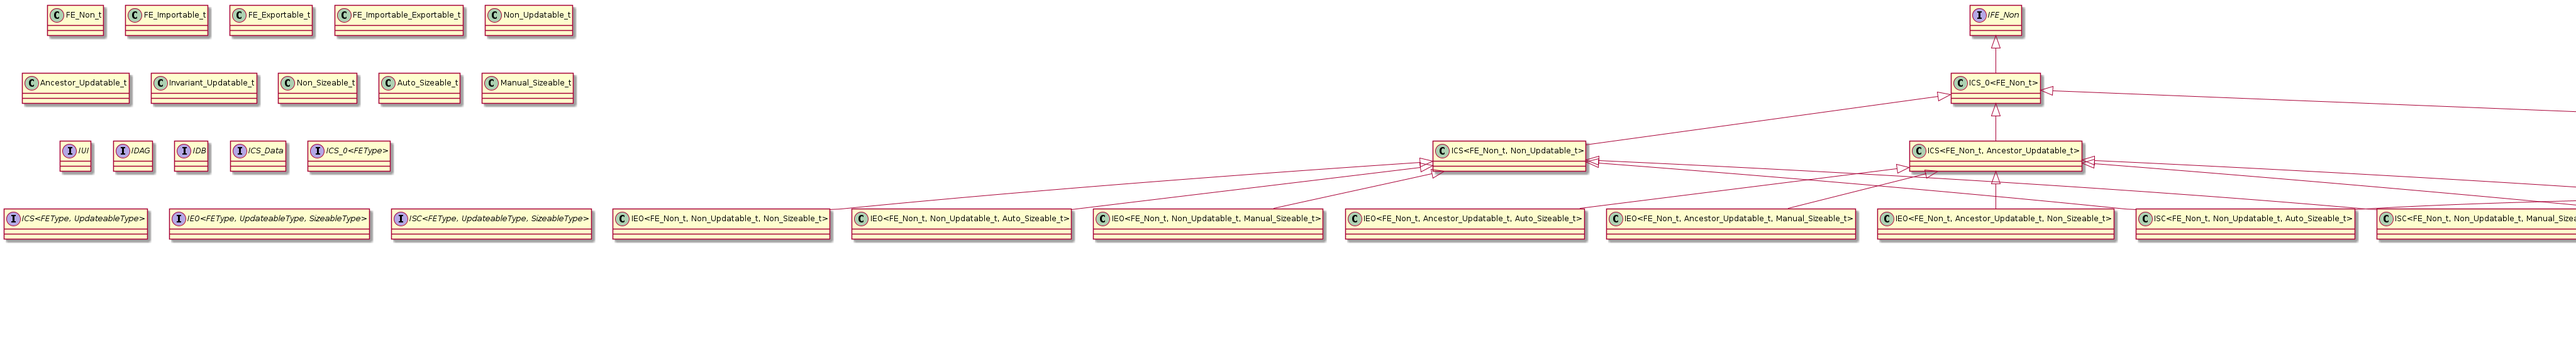
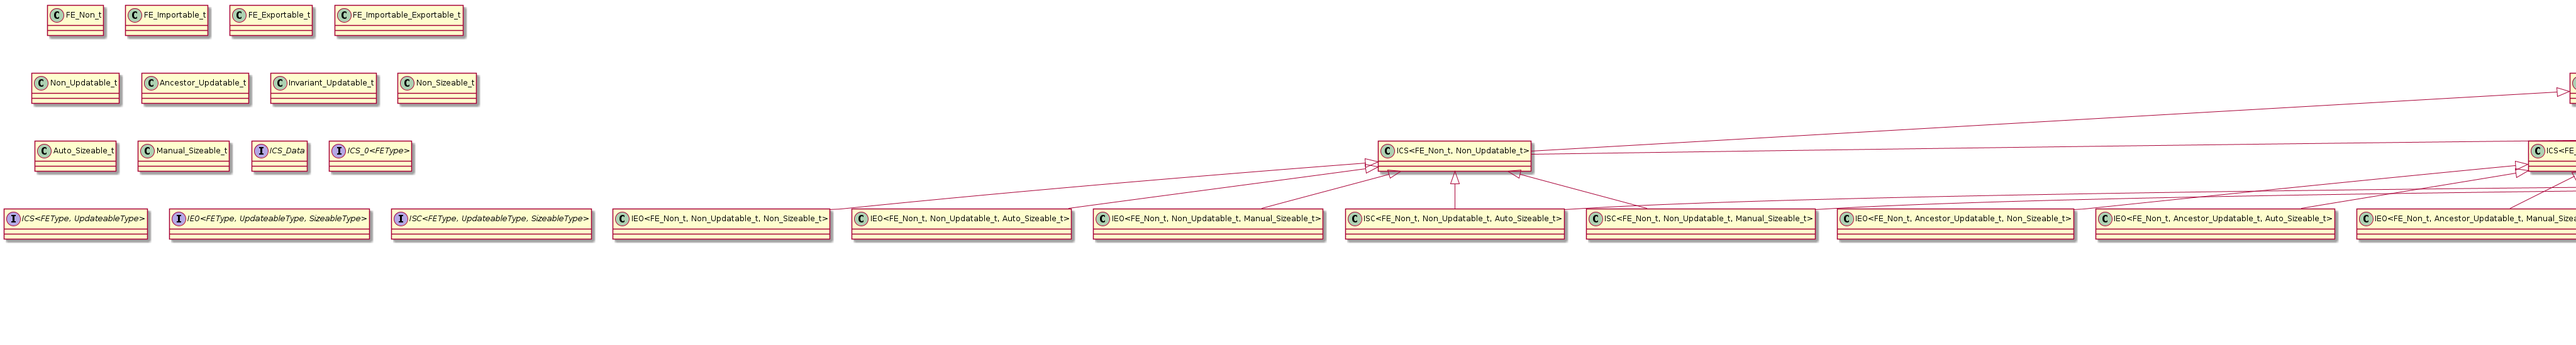
first commit

diff --git a/README.md b/README.md
@@ -3091,6 +3091,8 @@ struct ICS_0<FE_Importable_Exportable_t> : public IFE_Importable_Exportable {
   virtual ~ICS_0() = default;
 };
 
+struct ICS_1 : public IUI, IDAG, IDB {};
+
 // ---------------------------------------------
 // Updateability interface
 
@@ -3099,16 +3101,16 @@ struct Ancestor_Updatable_t;
 struct Invariant_Updatable_t;
 
 template<typename FEType, typename UpdateableType>
-struct I_CS {};
+struct ICS {};
 
 template<typename FEType>
-struct I_CS<FEType, Non_Updatable_t> : public ICS_0<FEType> {
+struct ICS<FEType, Non_Updatable_t> : public ICS_0<FEType>, ICS_1 {
   bool reevaluate_state__DAG(DAG_t const* DAG_) const { return true; };
-  virtual ~I_CS() = default;
+  virtual ~ICS() = default;
 };
 
 template<typename FEType>
-struct I_CS<FEType, Ancestor_Updatable_t> : public ICS_0<FEType> {
+struct ICS<FEType, Ancestor_Updatable_t> : public ICS_0<FEType>, ICS_1 {
   bool reevaluate_state__DAG(DAG_t const* DAG_) const { return inspect_ancestors(DAG_); };
   bool inspect_ancestors(DAG_t const* DAG_) const {
     auto ancestors{ get_ancestors(DAG_) };
@@ -3117,11 +3119,11 @@ struct I_CS<FEType, Ancestor_Updatable_t> : public ICS_0<FEType> {
     }
     return true;
   };
-  virtual ~I_CS() = default;
+  virtual ~ICS() = default;
 };
 
 template<typename FEType>
-struct I_CS<FEType, Invariant_Updatable_t> : public ICS_0<FEType> {
+struct ICS<FEType, Invariant_Updatable_t> : public ICS_0<FEType>, ICS_1 {
   bool reevaluate_state__DAG(DAG_t const* DAG_) const {
     auto inspection{ inspect_ancestors(DAG_) };
     if (!inspection) return false;
@@ -3135,7 +3137,7 @@ struct I_CS<FEType, Invariant_Updatable_t> : public ICS_0<FEType> {
     return true;
   };
   virtual bool inspect_invariant(DAG_t const* DAG_) const = 0;
-  virtual ~I_CS() = default;
+  virtual ~ICS() = default;
 };
 
 #endif
